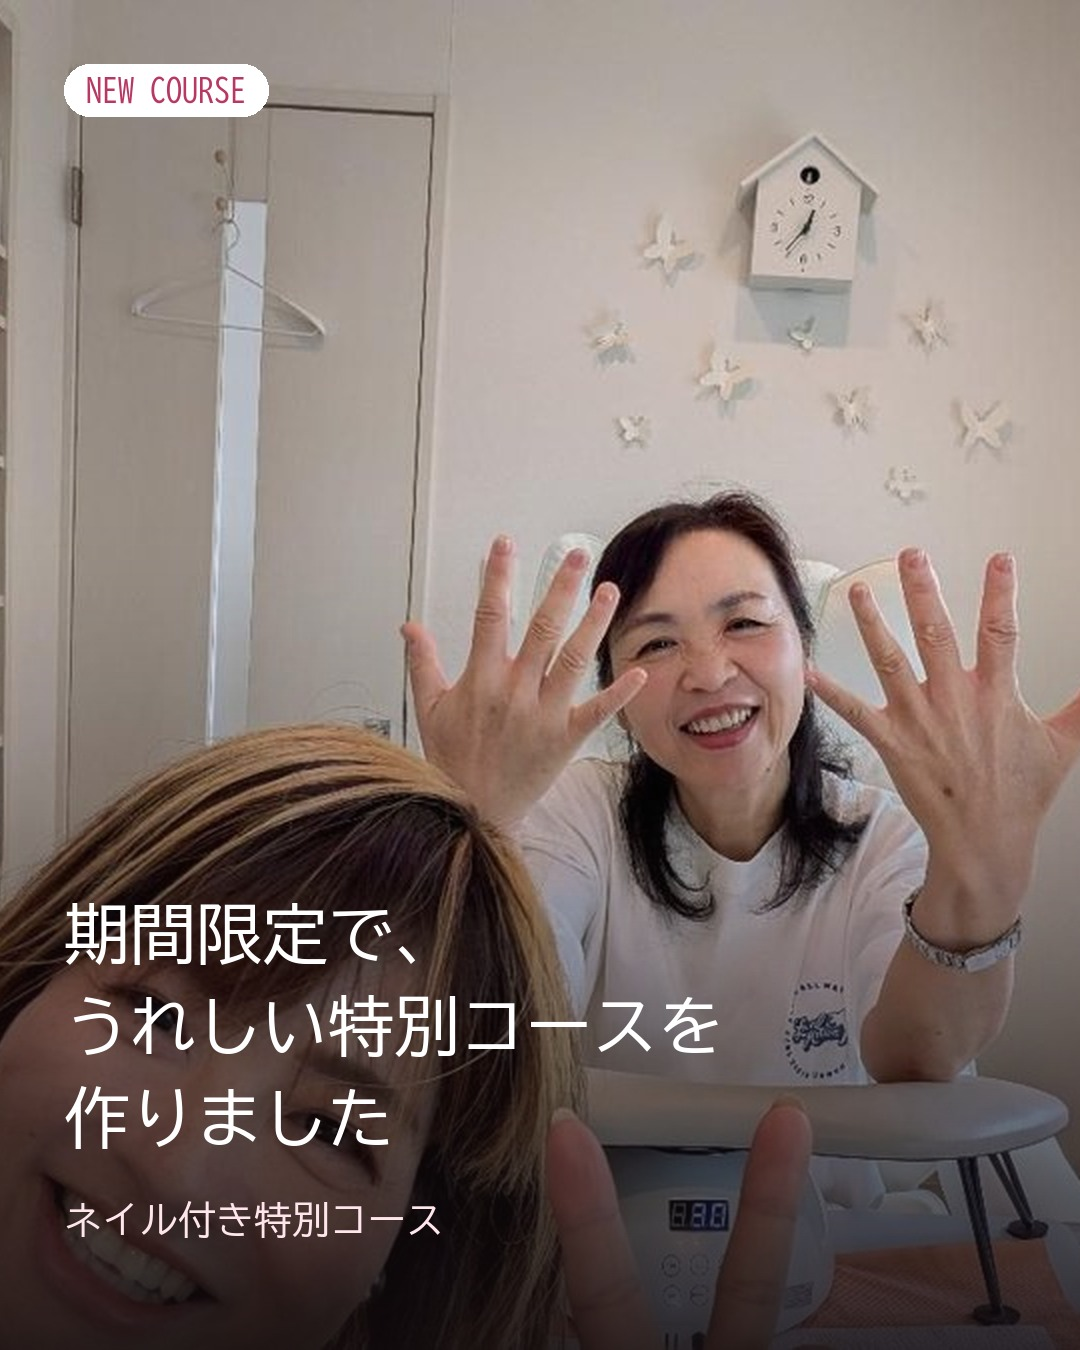
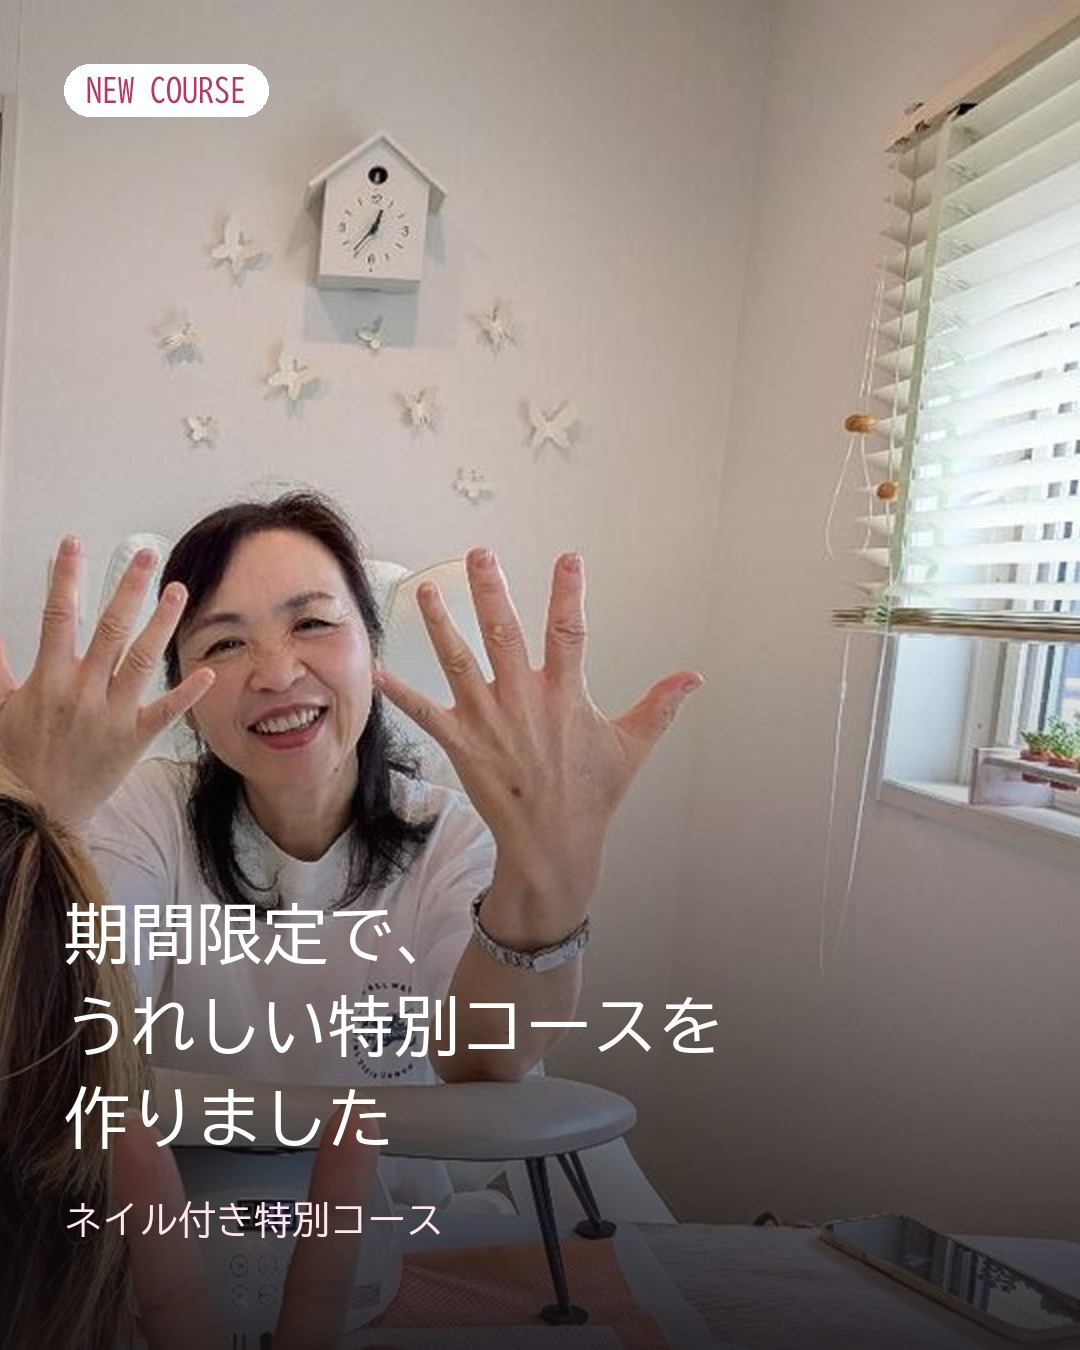
価格を17,000円に修正（LP・インスタ画像）、インスタ1枚目の顔/文字重なりを修正、入会金OFF告知画像を縦長で再作成
Claude-Session: https://claude.ai/code/session_014w3M7No8XMV6VLkTFyxnRa

diff --git a/campaign/nyukaikin-off-2026-09/index.html b/campaign/nyukaikin-off-2026-09/index.html
@@ -313,8 +313,8 @@
 
     <div class="offer-card" style="margin: 22px 0;">
       <div class="label">ネイル付き特別コース</div>
-      <div class="amount" style="font-size:28px;">月会費 <span style="font-size:18px;">18,000円（税込）</span></div>
-      <div class="note">※入会金・面談の頻度・お見合い料・ご成婚退会料など、その他の条件はナチュラルサポートコースと同じです</div>
+      <div class="amount" style="font-size:28px;">月会費 <span style="font-size:18px;">17,000円（税込）</span></div>
+      <div class="note">※アート爪は別途追加料金／入会金・面談の頻度・お見合い料・ご成婚退会料など、その他の条件はナチュラルサポートコースと同じです</div>
     </div>
 
     <p>このコースには、月1回のネイルタイムが含まれています。愛媛県内で人気のプライベートネイルサロン<span class="highlight">「tRipnail e'te'（トリップネイルエテ）」</span>の中山純子さんとのコラボです。</p>
